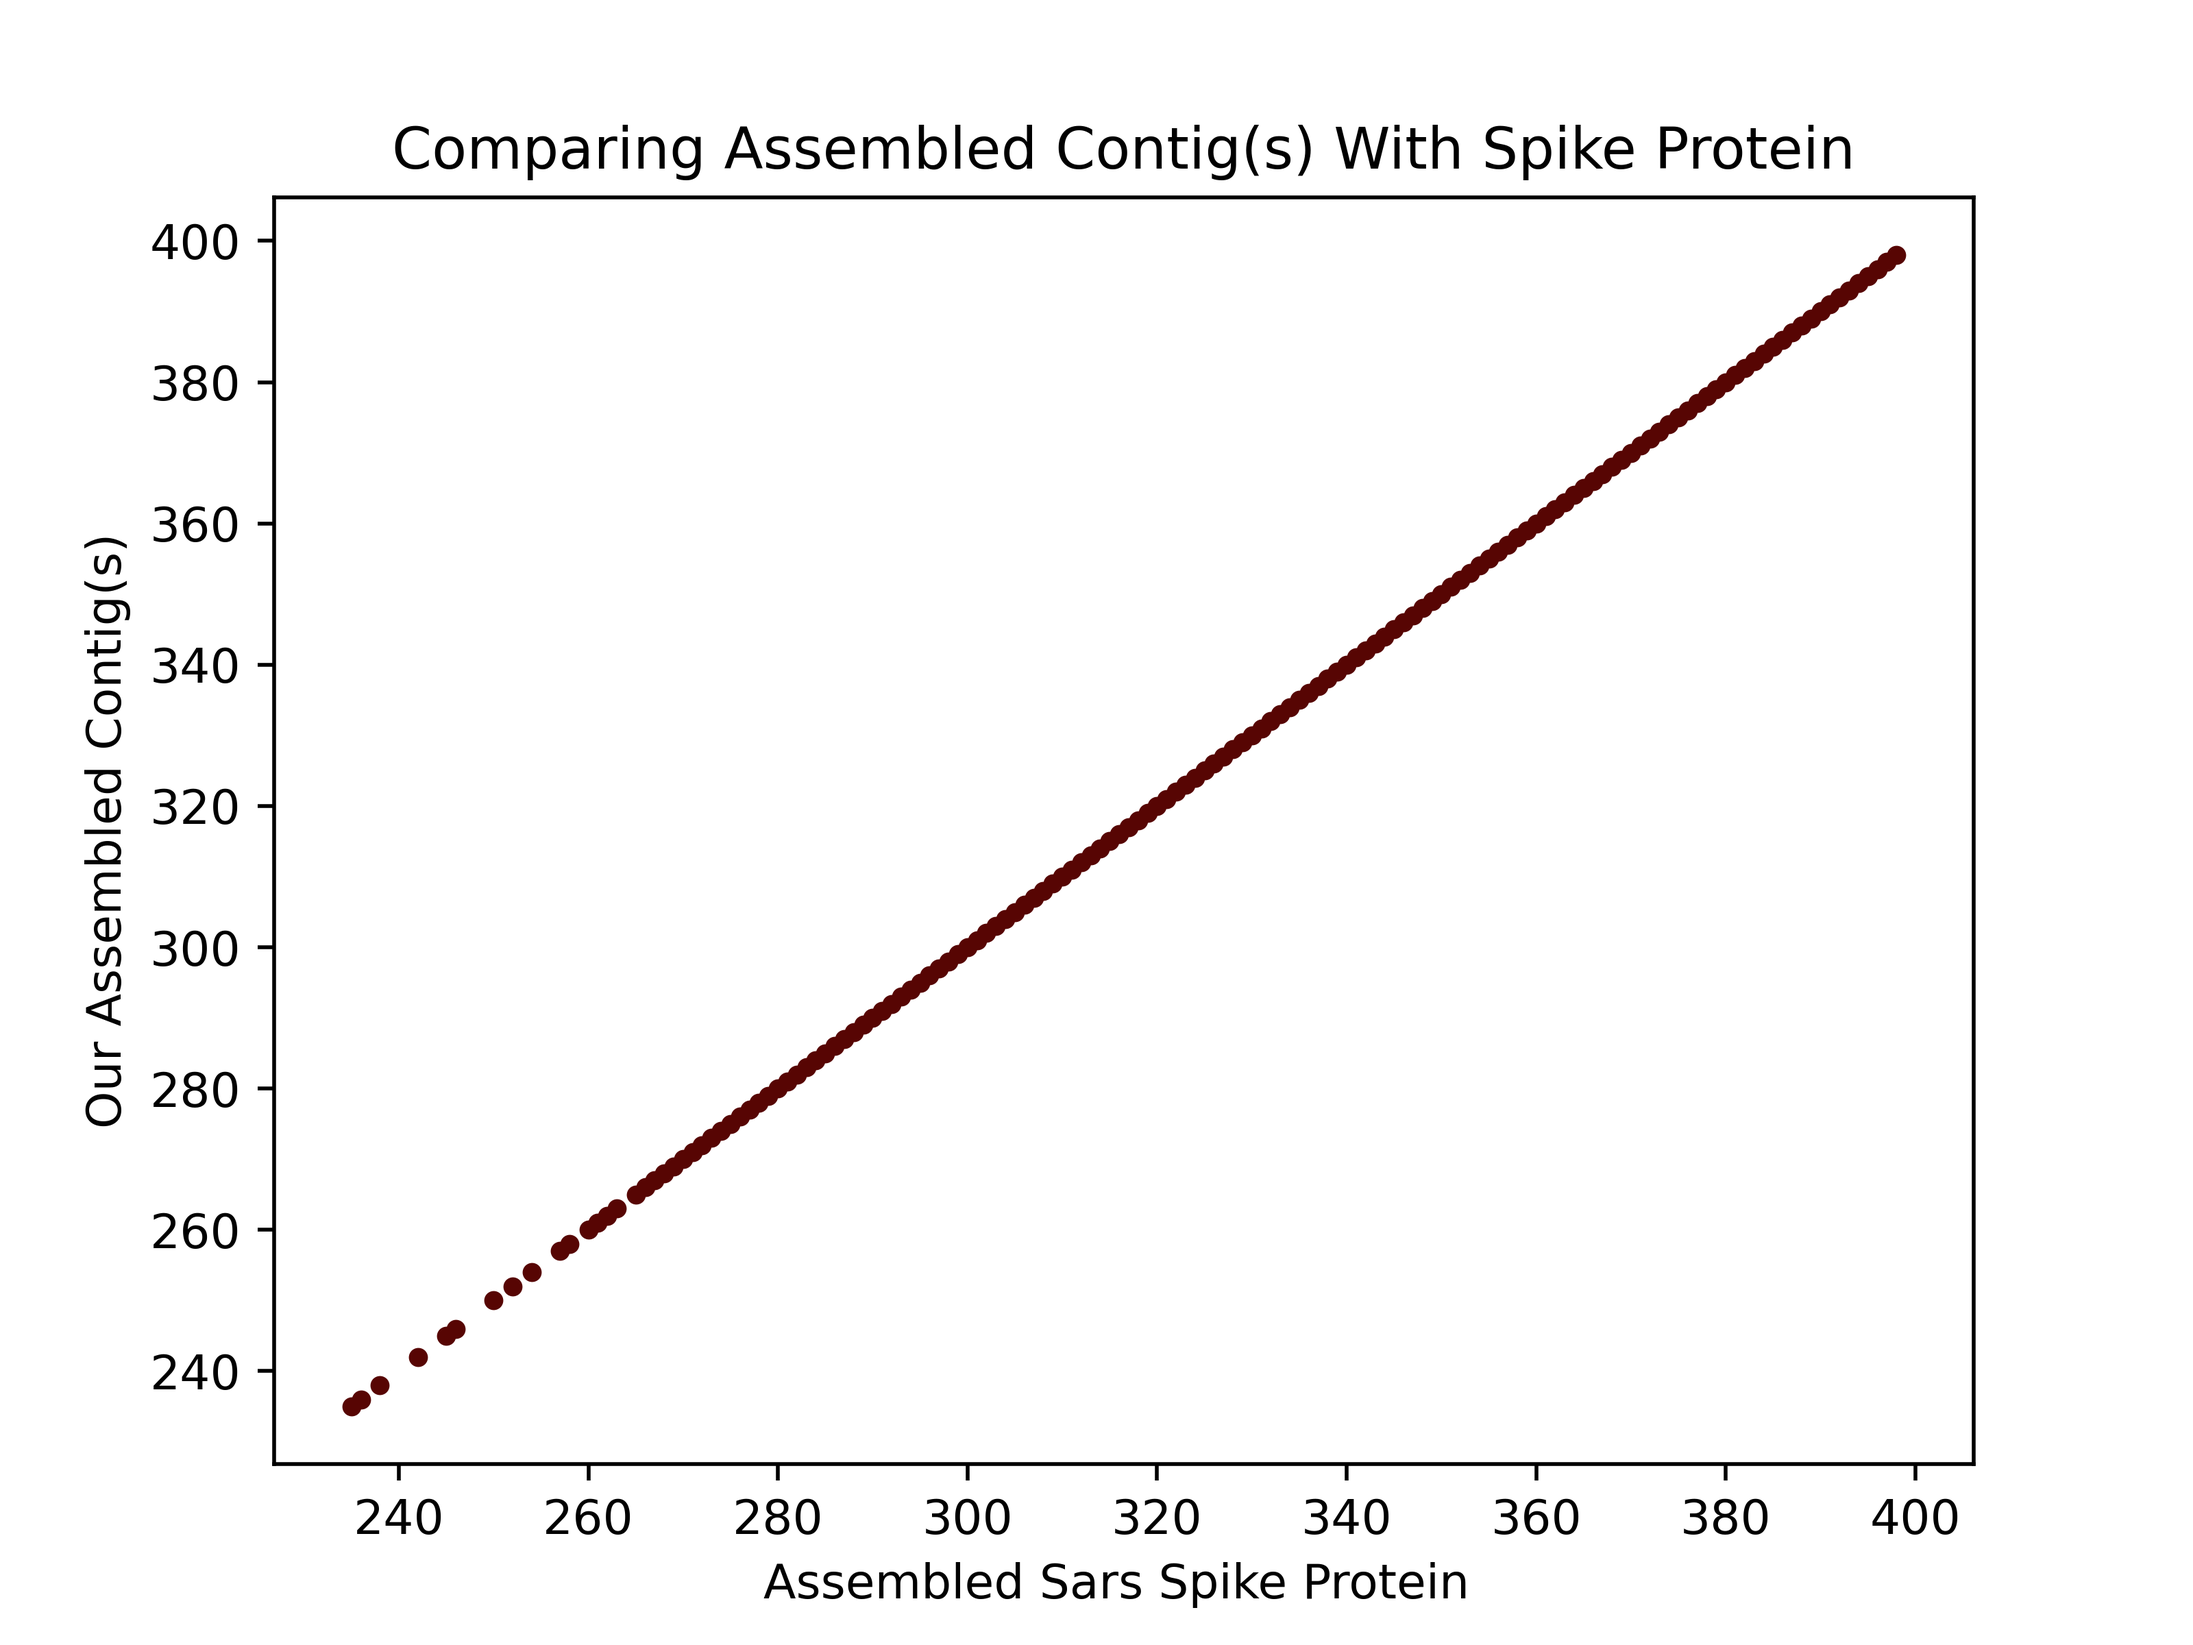
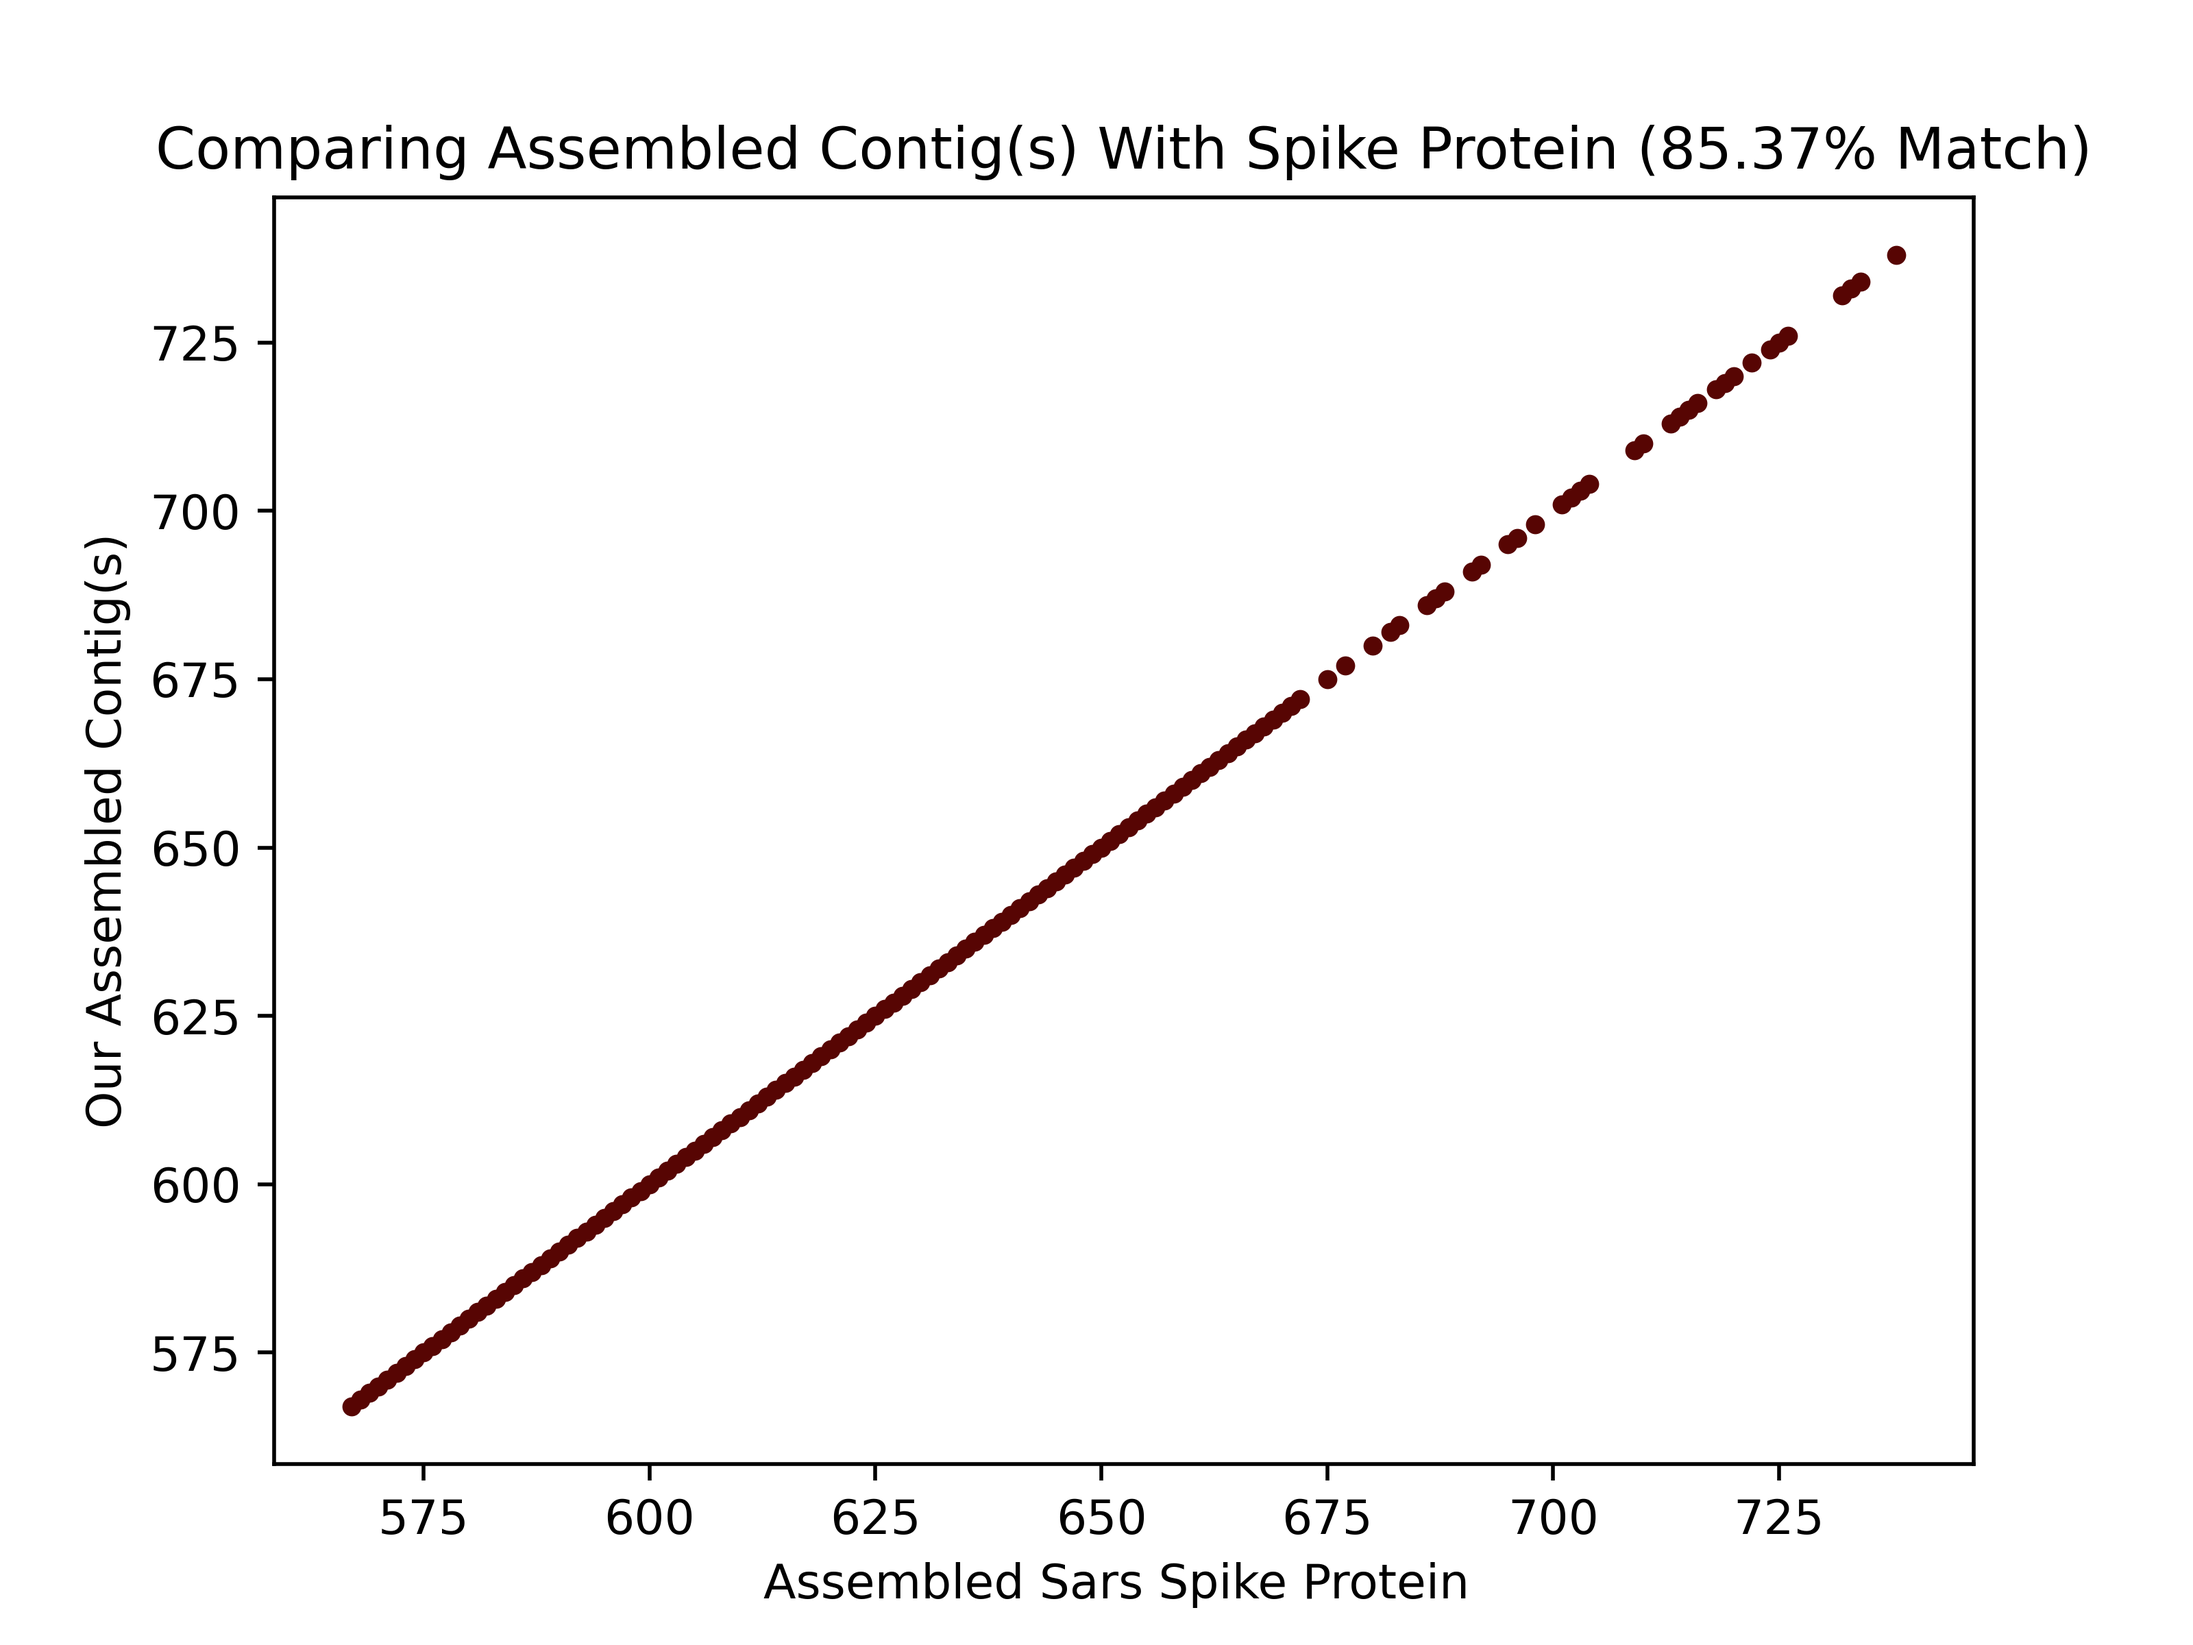
More results

diff --git a/alignment.py b/alignment.py
@@ -247,13 +247,16 @@ class alignment:
     def plot_compare(self, kmer, show_fig=False, save_fig=True):
 
         plt.clf()                                                           # Clear figure
-        plt.title('Comparing Assembled Contig(s) With Spike Protein')
-        plt.xlabel('Assembled Sars Spike Protein ')
-        plt.ylabel('Our Assembled Contig(s)')
-
+        count = 0
         for c in range(len(self.vis)):                                      # Plot only matches
             if(self.vis[c] == '|'):
                 plt.plot(c, c, '.', color='#570503')
+                count += 1
+
+        percent = (count/len(self.seq)) * 100
+        plt.title('Comparing Assembled Contig(s) With Spike Protein ({:.2f}% Match)'.format(percent))
+        plt.xlabel('Assembled Sars Spike Protein ')
+        plt.ylabel('Our Assembled Contig(s)')
 
         if(show_fig): plt.show()
         if(save_fig): 

diff --git a/main.py b/main.py
@@ -197,7 +197,7 @@ def main():
         data = get_data(fna_file)                                       # Processing genome data from fna file
         k = 14
         lstart = 0
-        lend = len(data[0])
+        lend = 10 #len(data[0])
         
         loop_kmer(data, k, k, lstart, lend)
 
